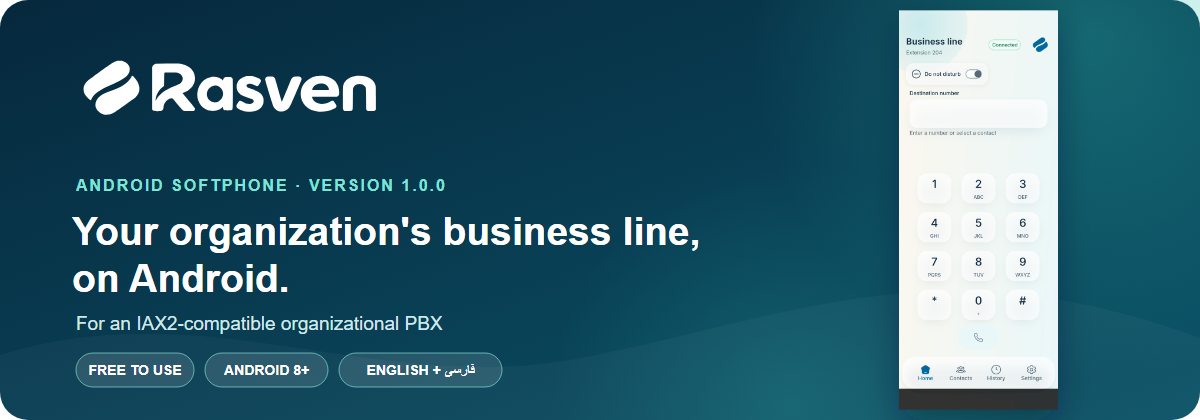
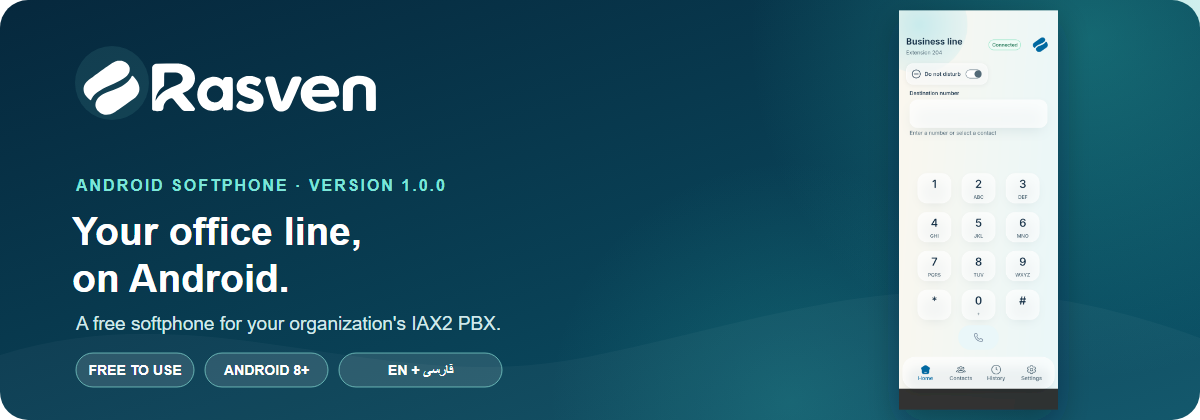
Improve Rasven branding and onboarding

Changed region(s): [[0.1542, 0.4952, 0.5858, 0.619], [0.0617, 0.7429, 0.4317, 0.8048], [0.3083, 0.8667, 0.4008, 0.8976]]

diff --git a/README.fa.md b/README.fa.md
@@ -1,96 +1,117 @@
 <p align="center">
-  <img src="docs/media/readme/banner-fa.png" alt="Rasven برای اندروید؛ تلفن نرمافزاری برای PBX سازمانی سازگار با IAX2، همراه با تصویر خود برنامه" width="100%">
+  <img src="docs/media/readme/banner-fa.png" alt="Rasven برای اندروید؛ تلفن نرمافزاری IAX2 همراه با تصویر واقعی برنامه" width="100%">
 </p>
-<p align="center"><sub>بنر از صفحهٔ خانهٔ خود Rasven استفاده میکند؛ وضعیت اتصال و داخلیِ دیدهشده مقدار نمونهاند.</sub></p>
+<p dir="rtl" align="right"><sub>بنر از صفحهٔ خانهٔ خود Rasven استفاده میکند؛ وضعیت اتصال و داخلیِ دیدهشده نمونهاند.</sub></p>
 
 <h1 align="center">Rasven برای اندروید</h1>
 
 <p align="center">
-  <a href="README.md">English</a> · <a href="#دریافت">دریافت</a> · <a href="#معماری">معماری</a> · <a href="#حمایت-مالی">حمایت مالی</a>
+  <a href="README.md">English</a> · <a href="#download">دریافت</a> · <a href="#features">امکانات</a> · <a href="#get-started">شروع کار</a> · <a href="#architecture">معماری</a> · <a href="#support-rasven">حمایت مالی</a>
 </p>
 
-Rasven یک تلفن نرمافزاری رایگان برای اندروید است که خط کاری سازمان را به گوشی اندرویدی میآورد. برای استفاده باید از قبل در یک **PBX سازمانی سازگار با IAX2** حساب داشته باشید؛ سرویس تلفنی، PBX یا حساب آن از طرف Rasven ارائه نمیشود.
+<p dir="rtl" align="right"><strong>خط سازمان، همراه گوشی اندرویدی شما.</strong><br>تلفن نرمافزاری رایگان برای حساب موجود در PBX سازمانی سازگار با <bdi dir="ltr">IAX2</bdi>.</p>
 
-## دریافت
+<p dir="rtl" align="right">Rasven کمک میکند از حساب تلفنی موجود سازمان روی گوشی اندرویدی استفاده کنید. این برنامه سرویس تلفنی، سامانهٔ <bdi dir="ltr">PBX</bdi> یا حساب آن را ارائه نمیدهد.</p>
 
-<p align="center"><a href="https://github.com/hellodarnio/rasven/releases/tag/v1.0.0"><strong>دریافت APK نسخهٔ Rasven v1.0.0</strong></a></p>
+<h2 id="download" dir="rtl" align="right">دریافت</h2>
 
-APK در [صفحهٔ Release گیتهاب](https://github.com/hellodarnio/rasven/releases/tag/v1.0.0) قرار دارد. **این مخزن فعلاً خصوصی است**؛ بنابراین دریافت فایل از GitHub به دسترسی مخزن نیاز دارد. نسخهٔ اول Rasven در بازارهای اپلیکیشن هم قابل دریافت است.
+<p dir="rtl" align="center"><a href="https://github.com/hellodarnio/rasven/releases/tag/v1.0.0"><strong>↓ دریافت APK نسخهٔ Rasven v1.0.0</strong></a></p>
 
-> **نکتهٔ نسخه:** بستهٔ بازار با همین snapshot سورس و گواهی امضای آن تطبیق داده نشده است. ممکن است این APK روی نسخهٔ نصبشده از بازار، بهعنوان بهروزرسانی پذیرفته نشود.
+<p dir="rtl" align="right">فایل <bdi dir="ltr">APK</bdi> در <a href="https://github.com/hellodarnio/rasven/releases/tag/v1.0.0">صفحهٔ Release گیتهاب</a> قرار دارد. نسخهٔ اول Rasven در بازارهای اپلیکیشن هم موجود است.</p>
 
-## امکانات در یک نگاه
+<blockquote dir="rtl"><strong>تطبیق بسته:</strong> بستهٔ نسخهٔ ۱٫۰٫۰ که در بازار و روی یک دستگاه در ۲۰۲۶-۱۰-۲۹ بررسی شد، از نظر <bdi dir="ltr">SHA-256</bdi> با فایل همین Release یکسان بود: <code dir="ltr">07918398b40f32dc3e076e4d74407c078c66155d0dd92922ab4286a2855d3965</code>. این بررسی فقط همان بسته را تأیید میکند؛ بستههای بازارهای دیگر مقایسه نشدهاند.</blockquote>
 
-| | |
-|---|---|
-| 📞 **تماس با خط سازمان** | راهاندازی حساب IAX2 و مسیر تماسهای ورودی و خروجی |
-| 🎛 **کنترل هنگام تماس** | کنترلهای بیصدا، بلندگو، انتظار و صفحهکلید تماس در برنامه وجود دارند |
-| 👥 **ابزارهای تلفنی** | مخاطبین، سوابق تماس و تنظیمات تماس |
-| 🌐 **دو زبان** | انگلیسی بهصورت پیشفرض و امکان انتخاب فارسی |
+<h2 id="features" dir="rtl" align="right">با Rasven چه میتوانید بکنید؟</h2>
 
-این فهرست دامنهٔ فعلی سورس را توصیف میکند و تأیید سازگاری با همهٔ PBXها یا دستگاههای اندرویدی نیست.
+<table dir="rtl">
+  <tr>
+    <td width="50%"><h3 dir="rtl" align="center">📞 تماس با خط سازمان</h3><p dir="rtl" align="center">تماس ورودی و خروجی با حساب <bdi dir="ltr">IAX2</bdi> سازمان.</p></td>
+    <td width="50%"><h3 dir="rtl" align="center">🎛 کنترل هنگام تماس</h3><p dir="rtl" align="center">بیصداکردن، بلندگو، انتظار و صفحهکلید تماس.</p></td>
+  </tr>
+  <tr>
+    <td width="50%"><h3 dir="rtl" align="center">👥 ابزارهای روزمرهٔ تلفن</h3><p dir="rtl" align="center">دسترسی سریع به مخاطبین، سوابق تماس و تنظیمات تماس.</p></td>
+    <td width="50%"><h3 dir="rtl" align="center">🌐 فارسی و انگلیسی</h3><p dir="rtl" align="center">استفاده از برنامه به هر یک از این دو زبان.</p></td>
+  </tr>
+</table>
 
-## نمایی از برنامه
+<p dir="rtl" align="right">این فهرست امکاناتی را نشان میدهد که در سورس فعلی وجود دارند و تأیید سازگاری با همهٔ <bdi dir="ltr">PBX</bdi>ها یا دستگاههای اندرویدی نیست.</p>
+
+<h2 id="get-started" dir="rtl" align="right">شروع کار در سه مرحله</h2>
+
+<ol dir="rtl" align="right">
+  <li>آدرس سرور، پورت، داخلی یا نام کاربری و رمز را از مدیر <bdi dir="ltr">PBX</bdi> سازمان بگیرید.</li>
+  <li>Rasven را از بازار اپلیکیشن یا Release گیتهاب نصب کنید.</li>
+  <li>حساب را اضافه کنید و برای تماس، مجوز میکروفن و اعلان را بدهید. دسترسی مخاطبین اختیاری است.</li>
+</ol>
+
+<h2 dir="rtl" align="right">نمایی از برنامه</h2>
 
 <p align="center">
   <img src="docs/media/readme/home-en.png" alt="صفحهٔ شمارهگیر Rasven با وضعیت نمونهٔ حساب و کلیدهای شمارهگیری" width="245">
 </p>
-<p align="center"><sub>رابط شمارهگیر از شواهد دستگاهی پروژه؛ وضعیت اتصال و داخلیِ نمایشدادهشده نمونهاند و اتصال زنده به PBX را نشان نمیدهند.</sub></p>
+<p dir="rtl" align="right"><sub>این صفحهٔ خانهٔ واقعی برنامه است. وضعیت اتصال و داخلیِ نمایشدادهشده نمونهاند و اتصال زنده به PBX را نشان نمیدهند.</sub></p>
 
-## معماری
+<h2 id="architecture" dir="rtl" align="right">معماری</h2>
 
-Rasven یک کلاینت اندرویدی است و کد سیگنالینگ IAX2 و انتقال UDP در خود برنامه قرار دارد. صدای تماس از موتور رسانهٔ G.711 و رابطهای صوتی اندروید عبور میکند. PBX یک سرور موجود و تحت مدیریت سازمان است و در این مخزن قرار ندارد.
+<p dir="rtl" align="right">Rasven یک کلاینت اندرویدی با کد سیگنالینگ <bdi dir="ltr">IAX2</bdi> و انتقال <bdi dir="ltr">UDP</bdi> داخلی است. صدای تماس از موتور رسانهٔ <bdi dir="ltr">G.711</bdi> برنامه و رابطهای صوتی اندروید عبور میکند. <bdi dir="ltr">PBX</bdi> سروری موجود و تحت مدیریت سازمان است و در این مخزن قرار ندارد.</p>
 
 <p align="center">
   <img src="docs/media/readme/architecture-fa.svg" alt="معماری Rasven: رابط اندروید، کلاینت IAX2، رسانهٔ صوتی و PBX بیرونی سازمان" width="100%">
 </p>
 
-برنامه برای ثبت حساب به دسترسی شبکه به PBX نیاز دارد. آدرس سرور، پورت، داخلی یا نام کاربری و رمز را از مدیر PBX بگیرید.
+<p dir="rtl" align="right">برنامه برای اتصال به <bdi dir="ltr">PBX</bdi> به حساب معتبر و دسترسی شبکه نیاز دارد. آدرس سرور، پورت، داخلی یا نام کاربری و رمز را از مدیر سامانه بگیرید.</p>
 
-## پیشنیازها
+<h2 dir="rtl" align="right">پیشنیازها</h2>
 
-- اندروید ۸٫۰ (API 26) یا جدیدتر
-- حساب کاربری در PBX سازمانی سازگار با IAX2
-- دسترسی شبکه به همان PBX
-- مجوز میکروفن و اعلان برای تماس؛ دسترسی مخاطبین اختیاری است
+<ul dir="rtl" align="right">
+  <li>اندروید ۸٫۰ (<bdi dir="ltr">API 26</bdi>) یا جدیدتر</li>
+  <li>حساب کاربری در <bdi dir="ltr">PBX</bdi> سازمانی سازگار با <bdi dir="ltr">IAX2</bdi></li>
+  <li>دسترسی شبکه به همان سرور</li>
+  <li>مجوز میکروفن و اعلان برای تماس؛ دسترسی مخاطبین اختیاری است</li>
+</ul>
 
-## ساخت از سورس
+<h2 dir="rtl" align="right">ساخت از سورس</h2>
 
-یک JDK سازگار و Android SDK نصب کنید، سپس مخزن را در Android Studio باز کنید یا Gradle Wrapper را از ریشهٔ پروژه اجرا کنید.
+<p dir="rtl" align="right">یک <bdi dir="ltr">JDK</bdi> سازگار و <bdi dir="ltr">Android SDK</bdi> نصب کنید، سپس مخزن را در Android Studio باز کنید یا از ریشهٔ پروژه <bdi dir="ltr">Gradle Wrapper</bdi> را اجرا کنید.</p>
 
-**Windows PowerShell**
-
+<p dir="rtl" align="right"><strong>Windows PowerShell</strong></p>
 ```powershell
 .\gradlew.bat :app:assembleDebug
 ```
 
-**Linux یا macOS**
-
+<p dir="rtl" align="right"><strong>Linux یا macOS</strong></p>
 ```sh
 ./gradlew :app:assembleDebug
 ```
 
-APK آزمایشی در مسیر `app/build/outputs/apk/debug/` قرار میگیرد. این فایل برای توسعه و ارزیابی است و نسخهٔ عمومیِ امضاشده محسوب نمیشود. ساخت نسخهٔ انتشار به شناسهٔ تأییدشدهٔ برنامه و اطلاعات امضا نیاز دارد؛ این مقادیر را بیرون از مخزن نگه دارید و فایل کلید یا رمزها را commit نکنید.
+<p dir="rtl" align="right">فایل آزمایشی در <code dir="ltr">app/build/outputs/apk/debug/</code> قرار میگیرد. این فایل برای توسعه و ارزیابی است و نسخهٔ عمومیِ امضاشده محسوب نمیشود. ساخت نسخهٔ انتشار به شناسهٔ تأییدشدهٔ برنامه و اطلاعات امضا نیاز دارد؛ این مقادیر را بیرون از مخزن نگه دارید و فایل کلید یا رمزها را commit نکنید.</p>
 
-## وضعیت اعتبارسنجی
+<h2 dir="rtl" align="right">وضعیت اعتبارسنجی</h2>
 
-گزارش handoff مورخ ۲۰۲۶-۱۰-۲۳ برای این snapshot سورس، **۳۳۲ آزمون موفق JVM** و اجرای هدفمند روی دستگاه اندرویدی با نتیجهٔ **۸ از ۸** را ثبت کرده است. این بررسیها پیش از تغییر اخیر تنظیمات امضا اجرا شدهاند. یک اجرای جداگانه از مجموعهٔ کامل دستگاه **۱۹۰ از ۱۹۵** بود و پنج خطا داشت؛ بنابراین آن مجموعه سبز نبود. پس از تغییر تنظیم امضا، ساخت APK تازهای در handoff ثبت نشده است.
+<p dir="rtl" align="right">گزارش handoff مورخ ۲۰۲۶-۱۰-۲۳ برای این snapshot سورس، <strong>۳۳۲ آزمون موفق JVM</strong> و اجرای هدفمند روی دستگاه اندرویدی با نتیجهٔ <strong>۸ از ۸</strong> را ثبت کرده است. این بررسیها پیش از تغییر اخیر تنظیمات امضا اجرا شدهاند. یک اجرای جداگانه از مجموعهٔ کامل دستگاه <strong>۱۹۰ از ۱۹۵</strong> بود و پنج خطا داشت؛ بنابراین آن مجموعه سبز نبود. در handoff ساخت APK تازهای پس از تغییر تنظیم امضا ثبت نشده است.</p>
 
-سازگاری زنده با PBX، انتقال مشاورهای تماس و رفتار طولانیمدت در پسزمینه و Doze برای این snapshot هنوز تأیید نشدهاند. نتیجههای آزمون تاریخی هم APK فعلی بازار را تأیید نمیکنند.
+<p dir="rtl" align="right">سازگاری زنده با PBX، انتقال مشاورهای تماس و رفتار طولانیمدت در پسزمینه و Doze برای این snapshot هنوز تأیید نشدهاند. نتیجههای آزمون تاریخی هم APK فعلی بازار را تأیید نمیکنند.</p>
 
-## حمایت مالی
+<h2 id="support-rasven" dir="rtl" align="right">حمایت مالی</h2>
 
-استفاده از Rasven رایگان است و حمایت مالی اختیاری است. حمایت فقط بهشکل **USDT** و به دو آدرس زیر پذیرفته میشود. هر QR فقط آدرس کیف پول را کدگذاری میکند و نوع توکن یا شبکه را برای کیف پول انتخاب نمیکند.
+<p dir="rtl" align="right">استفاده از Rasven رایگان است. اگر برای کار سازمانتان مفید است، میتوانید با <bdi dir="ltr">USDT</bdi> از ادامهٔ توسعهٔ آن حمایت کنید. حمایت کاملاً اختیاری است.</p>
 
-| 🟢 **USDT · BNB Smart Chain (BEP-20)** | 🔺 **USDT · TRON (TRC-20)** |
-|---|---|
-| <img src="docs/media/readme/usdt-bep20.svg" alt="QR آدرس کیف پول USDT روی شبکهٔ BNB Smart Chain با استاندارد BEP-20" width="180"> | <img src="docs/media/readme/usdt-trc20.svg" alt="QR آدرس کیف پول USDT روی شبکهٔ TRON با استاندارد TRC-20" width="180"> |
-| `0x2548E3A6dECac1FFfb0d02175d165B914CF04D40` | `TDWVLgeWp21hkPV4zgRJzMTB28nzcyuGck` |
+<table dir="rtl">
+  <tr><th>💛 <bdi dir="ltr">USDT</bdi> · <bdi dir="ltr">BNB Smart Chain (BEP-20)</bdi></th><th>🔺 <bdi dir="ltr">USDT</bdi> · <bdi dir="ltr">TRON (TRC-20)</bdi></th></tr>
+  <tr>
+    <td align="center"><img src="docs/media/readme/usdt-bep20.svg" alt="QR آدرس کیف پول USDT روی شبکهٔ BNB Smart Chain با استاندارد BEP-20" width="180"></td>
+    <td align="center"><img src="docs/media/readme/usdt-trc20.svg" alt="QR آدرس کیف پول USDT روی شبکهٔ TRON با استاندارد TRC-20" width="180"></td>
+  </tr>
+  <tr>
+    <td align="center"><code dir="ltr">0x2548E3A6dECac1FFfb0d02175d165B914CF04D40</code></td>
+    <td align="center"><code dir="ltr">TDWVLgeWp21hkPV4zgRJzMTB28nzcyuGck</code></td>
+  </tr>
+</table>
 
-پیش از ارسال، **USDT** و شبکهٔ دقیق درجشده در بالا را در کیف پولتان بررسی کنید. انتقال روی شبکهٔ دیگری ممکن است قابلبازیابی نباشد.
+<p dir="rtl" align="right">هر QR فقط آدرس کیف پول را کدگذاری میکند و توکن یا شبکه را برای کیف پول انتخاب نمیکند. پیش از ارسال، <bdi dir="ltr">USDT</bdi> و شبکهٔ دقیق بالا را در کیف پولتان بررسی کنید. انتقال روی شبکهای دیگر ممکن است قابلبازیابی نباشد.</p>
 
-## وضعیت پروژه و مجوز
+<h2 dir="rtl" align="right">وضعیت پروژه و مجوز</h2>
 
-مخزن سورس فعلاً خصوصی است. **هنوز مجوزی برای کل پروژه اضافه نشده**؛ بنابراین سورس هنوز با مجوز متنباز منتشر نشده است. پیش از استفادهٔ عمومی از کد یا دعوت عمومی به مشارکت، باید مجوز انتخاب و اضافه شود.
+<p dir="rtl" align="right">مخزن سورس عمومی است. <strong>هنوز مجوزی برای کل پروژه اضافه نشده</strong>؛ بنابراین سورس قابلمشاهده است، اما با مجوز متنباز منتشر نشده. پیش از استفادهٔ عمومی مجدد از کد یا دعوت عمومی به مشارکت، باید مجوز انتخاب و اضافه شود.</p>
 
-نگهداری پروژه: **Darnio Studio**.
+<p dir="rtl" align="right">نگهداری پروژه: <strong>Darnio Studio</strong>.</p>

diff --git a/README.md b/README.md
@@ -1,41 +1,53 @@
 <p align="center">
-  <img src="docs/media/readme/banner-en.png" alt="Rasven for Android — a free softphone for your organization's IAX2 PBX, with a screenshot of the actual app" width="100%">
+  <img src="docs/media/readme/banner-en.png" alt="Rasven for Android — an IAX2 softphone, shown with the real Rasven app screen" width="100%">
 </p>
-<p align="center"><sub>The banner shows the actual Rasven home screen. Its connection indicator and extension are sample values.</sub></p>
+<p align="center"><sub>The banner uses the real Rasven home screen. Its connection status and extension are sample values.</sub></p>
 
 <h1 align="center">Rasven for Android</h1>
 
 <p align="center">
-  <a href="README.fa.md">فارسی</a> · <a href="#download">Download</a> · <a href="#architecture">Architecture</a> · <a href="#support-rasven">Support Rasven</a>
+  <a href="README.fa.md">فارسی</a> · <a href="#download">Download</a> · <a href="#features">Features</a> · <a href="#get-started">Get started</a> · <a href="#architecture">Architecture</a> · <a href="#support-rasven">Support Rasven</a>
 </p>
 
-Rasven is a free Android softphone for people who already have an account on an **IAX2-compatible organizational PBX**. It brings the organization's business line to an Android phone; it does not provide phone service, a PBX, or PBX accounts.
+<p align="center"><strong>Your office line, on Android.</strong><br>A free softphone for an existing IAX2-compatible organizational PBX account.</p>
+
+Rasven helps people use their organization's existing business phone account on an Android phone. It does not provide phone service, a PBX, or PBX accounts.
 
 ## Download
 
-<p align="center"><a href="https://github.com/hellodarnio/rasven/releases/tag/v1.0.0"><strong>Get the Rasven v1.0.0 APK</strong></a></p>
+<p align="center"><a href="https://github.com/hellodarnio/rasven/releases/tag/v1.0.0"><strong>↓ Download Rasven v1.0.0 APK</strong></a></p>
 
-The APK is attached to the [GitHub Release](https://github.com/hellodarnio/rasven/releases/tag/v1.0.0). **This repository is private**, so GitHub requires repository access to download it. Rasven v1 is also available through app markets.
+The APK is attached to the <a href="https://github.com/hellodarnio/rasven/releases/tag/v1.0.0">GitHub Release</a>. Rasven v1 is also available through app markets.
 
-> **Version note:** the market package has not been matched to this exact source snapshot or signing certificate. Installing this APK may not update a market-installed copy.
+> **Package verification:** The Bazaar v1.0.0 package checked on 2026-10-29 had the same SHA-256 as the APK attached to this release: <code>07918398b40f32dc3e076e4d74407c078c66155d0dd92922ab4286a2855d3965</code>. This confirms that checked package only; packages from other markets were not compared.
 
-## At a glance
+<h2 id="features">What you can do</h2>
 
-| | |
-|---|---|
-| 📞 **Business-line calling** | IAX2 account setup and incoming/outgoing call flows |
-| 🎛 **In-call controls** | Mute, speaker, hold, and keypad controls are included in the app |
-| 👥 **Useful phone tools** | Contacts, call history, and call settings |
-| 🌐 **Two languages** | English by default, with Persian available |
+<table>
+  <tr>
+    <td width="50%"><h3 align="center">📞 Office-line calls</h3><p align="center">Make and receive calls through your organization's IAX2 PBX account.</p></td>
+    <td width="50%"><h3 align="center">🎛 In-call controls</h3><p align="center">Use mute, speaker, hold, and keypad controls while calling.</p></td>
+  </tr>
+  <tr>
+    <td width="50%"><h3 align="center">👥 Everyday phone tools</h3><p align="center">Keep contacts, call history, and call settings close at hand.</p></td>
+    <td width="50%"><h3 align="center">🌐 English + فارسی</h3><p align="center">Use the app in English or Persian.</p></td>
+  </tr>
+</table>
 
-The list describes the current source. It is not a certification of compatibility with every PBX or Android device.
+These are the features represented in the current source. They do not certify compatibility with every PBX or Android device.
+
+<h2 id="get-started">Get started in three steps</h2>
+
+1. Ask your PBX administrator for the server address, port, extension or username, and password.
+2. Install Rasven from an app market or the GitHub Release above.
+3. Add your account and allow microphone and notification access for calling. Contacts access is optional.
 
 ## See the app
 
 <p align="center">
   <img src="docs/media/readme/home-en.png" alt="Rasven home dialer with sample account status and number keypad" width="245">
 </p>
-<p align="center"><sub>Home dialer UI from the source project's device evidence. Its connected indicator and extension are sample state, not a live PBX connection.</sub></p>
+<p align="center"><sub>This is the real home dialer from the project. The connected indicator and extension are sample state, not a live PBX connection.</sub></p>
 
 ## Architecture
 
@@ -70,7 +82,7 @@ Install a compatible JDK and Android SDK, then open the repository in Android St
 ./gradlew :app:assembleDebug
 ```
 
-The debug APK is written to `app/build/outputs/apk/debug/`. It is for development and evaluation, not a signed public release. A release build also requires the approved production application ID and signing credentials; keep those values outside this repository and never commit a keystore or passwords.
+The debug APK is written to <code>app/build/outputs/apk/debug/</code>. It is for development and evaluation, not a signed public release. A release build also requires the approved production application ID and signing credentials; keep those values outside this repository and never commit a keystore or passwords.
 
 ## Validation status
 
@@ -80,17 +92,24 @@ Live interoperability with a PBX, attended transfer, and extended background/Doz
 
 ## Support Rasven
 
-Rasven is free to use. Cryptocurrency support is optional and accepted in **USDT only** at the two addresses below. Each QR code contains only its wallet address; it does not select a token or network for you.
+Rasven is free to use. If it helps your organization, you can support its continued development with USDT. Support is optional.
 
-| 🟢 **USDT · BNB Smart Chain (BEP-20)** | 🔺 **USDT · TRON (TRC-20)** |
-|---|---|
-| <img src="docs/media/readme/usdt-bep20.svg" alt="QR code for the USDT BNB Smart Chain BEP-20 wallet address" width="180"> | <img src="docs/media/readme/usdt-trc20.svg" alt="QR code for the USDT TRON TRC-20 wallet address" width="180"> |
-| `0x2548E3A6dECac1FFfb0d02175d165B914CF04D40` | `TDWVLgeWp21hkPV4zgRJzMTB28nzcyuGck` |
+<table>
+  <tr><th>💛 USDT · BNB Smart Chain (BEP-20)</th><th>🔺 USDT · TRON (TRC-20)</th></tr>
+  <tr>
+    <td align="center"><img src="docs/media/readme/usdt-bep20.svg" alt="QR code for the USDT BNB Smart Chain BEP-20 wallet address" width="180"></td>
+    <td align="center"><img src="docs/media/readme/usdt-trc20.svg" alt="QR code for the USDT TRON TRC-20 wallet address" width="180"></td>
+  </tr>
+  <tr>
+    <td align="center"><code>0x2548E3A6dECac1FFfb0d02175d165B914CF04D40</code></td>
+    <td align="center"><code>TDWVLgeWp21hkPV4zgRJzMTB28nzcyuGck</code></td>
+  </tr>
+</table>
 
-Before sending, confirm **USDT** and the exact network shown above in your wallet. A transfer on a different network may not be recoverable.
+Each QR code contains only the wallet address; it does not select a token or network. Before sending, confirm **USDT** and the exact network shown above in your wallet. A transfer on a different network may not be recoverable.
 
 ## Project status and license
 
-The source repository is private today. **No project license has been added yet**, so the code is not yet released under an open-source license. A license must be selected before public reuse or public contribution can be invited.
+The source repository is public. **No project license has been added yet**, so the code is visible but has not been released under an open-source license. A license must be selected before general reuse or public contributions can be invited.
 
 Maintained by **Darnio Studio**.
